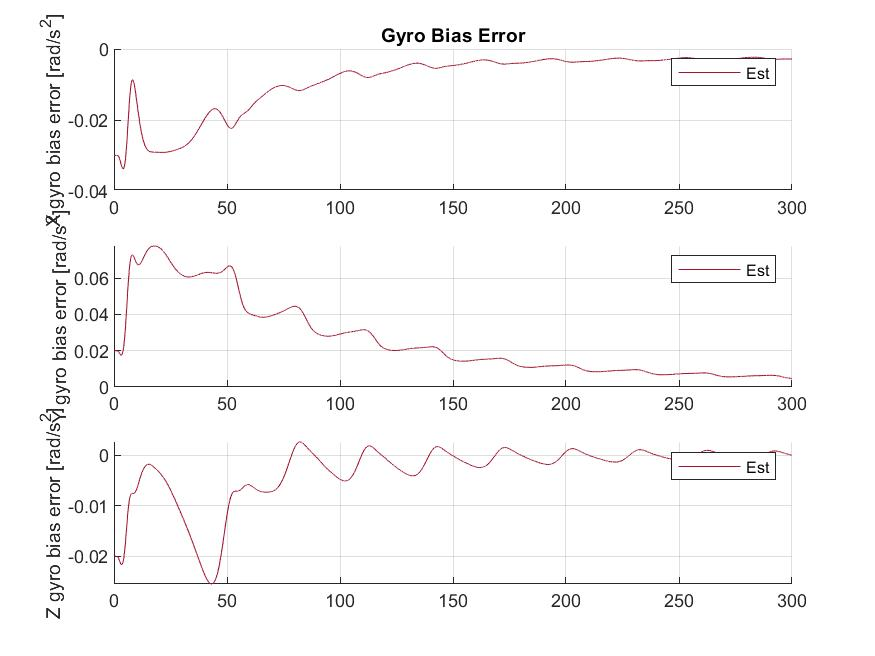
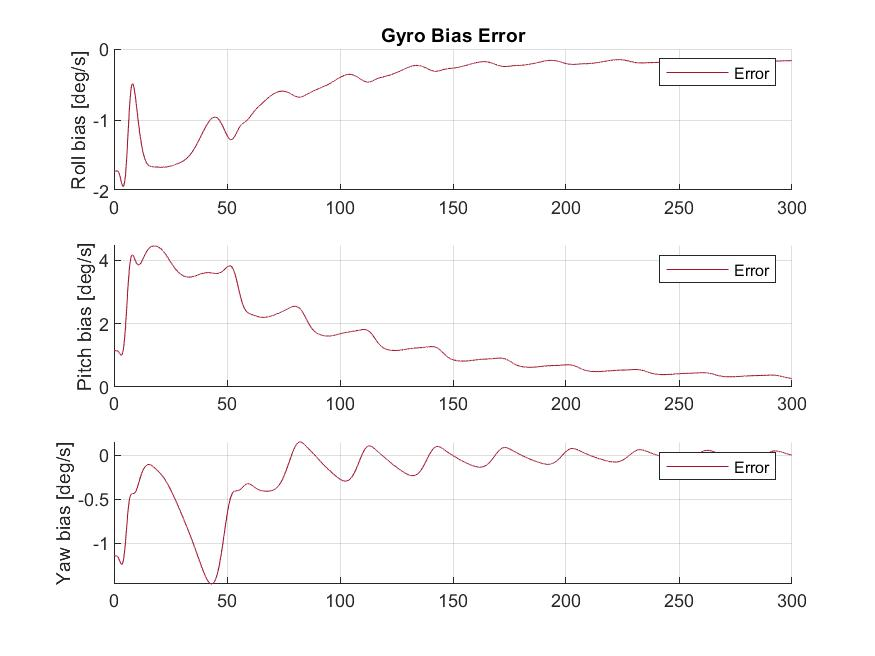
Prettify plots

diff --git a/ESKF/MESKF_sola.m b/ESKF/MESKF_sola.m
@@ -160,6 +160,8 @@ end
 
 % PLOTS
    
+% PLOTS
+   
 % POSITION
 figure(1)
 figure(gcf);
@@ -204,14 +206,14 @@ subplot(3, 1, 2)
 hold on;
 plot(time, p_n_nb(2,:) - ins_data(2,:) ,'Color', [0.6350, 0.0780, 0.1840], 'Linewidth', 0.5);
 ylabel('Y position [m]')
-legend('Est');
+legend('Error');
 grid on;
 
 subplot(3, 1, 3)
 hold on;
 plot(time, p_n_nb(3,:) - ins_data(3,:) ,'Color', [0.6350, 0.0780, 0.1840], 'Linewidth', 0.5);
 ylabel('Z position [m]')
-legend('Est');
+legend('Error');
 grid on;
 saveas(gcf,'results/PositionError.jpeg')
 
@@ -251,23 +253,23 @@ figure(gcf);
 subplot(3, 1, 1)
 hold on;
 plot(time, v_n_nb(1,:) - ins_data(4,:) ,'Color', [0.6350, 0.0780, 0.1840], 'Linewidth', 0.5);
-ylabel('X velocity error [m/s]')
-legend('Est');
+ylabel('X velocity [m/s]')
+legend('Error');
 title('Velocity Error');
 grid on;
 
 subplot(3, 1, 2)
 hold on;
 plot(time, v_n_nb(2,:) - ins_data(5,:) ,'Color', [0.6350, 0.0780, 0.1840], 'Linewidth', 0.5);
-ylabel('Y velocity error [m/s]')
-legend('Est');
+ylabel('Y velocity [m/s]')
+legend('Error');
 grid on;
 
 subplot(3, 1, 3)
 hold on;
 plot(time, v_n_nb(3,:) - ins_data(6,:) ,'Color', [0.6350, 0.0780, 0.1840], 'Linewidth', 0.5);
-ylabel('Z velocity error [m/s]')
-legend('Est');
+ylabel('Z velocity [m/s]')
+legend('Error');
 grid on;
 saveas(gcf,'results/VelocityError.jpeg')
 
@@ -309,8 +311,8 @@ figure(gcf);
 subplot(3, 1, 1)
 hold on;
 plot(time, bacc_b_nb(1,:) - ins_data(7,:) ,'Color', [0.6350, 0.0780, 0.1840], 'Linewidth', 0.5);
-ylabel('X accel bias error [m/s^2]')
-legend('Est');
+ylabel('X accel bias [m/s^2]')
+legend('Error');
 title('Accelerometer Bias Error');
 grid on;
 
@@ -318,14 +320,14 @@ subplot(3, 1, 2)
 hold on;
 plot(time, bacc_b_nb(2,:) - ins_data(8,:) ,'Color', [0.6350, 0.0780, 0.1840], 'Linewidth', 0.5);
 ylabel('Y accel bias error [m/s^2]')
-legend('Est');
+legend('Error');
 grid on;
 
 subplot(3, 1, 3)
 hold on;
 plot(time, bacc_b_nb(3,:) - ins_data(9,:) ,'Color', [0.6350, 0.0780, 0.1840], 'Linewidth', 0.5);
-ylabel('Z accel bias error [m/s^2]')
-legend('Est');
+ylabel('Z accel bias [m/s^2]')
+legend('Error');
 grid on;
 saveas(gcf,'results/AccelBiasError.jpeg')
 
@@ -356,7 +358,7 @@ hold on;
 plot(time, rad2deg*ins_data(12,:), 'Color', [1,165/255, 0], 'Linewidth', 2);
 plot(time, rad2deg*att_n_nb(3,:),'Color', 'black', 'Linewidth', 1.5);
 xlabel('Time [s]');
-ylabel('yaw angle [deg]')
+ylabel('Yaw angle [deg]')
 legend('Est', 'True');
 grid on;
 saveas(gcf,'results/Attitude.jpeg')
@@ -368,23 +370,23 @@ figure(gcf);
 subplot(3, 1, 1)
 hold on;
 plot(time, ssa(rad2deg*att_n_nb(1,:) - rad2deg*ins_data(10,:),'deg') ,'Color', [0.6350, 0.0780, 0.1840], 'Linewidth', 0.5);
-ylabel('X velocity error [m/s]')
-legend('Est');
-title('Attotide Error');
+ylabel('Roll angle [deg]')
+legend('Error');
+title('Attitude Error');
 grid on;
 
 subplot(3, 1, 2)
 hold on;
 plot(time, ssa(rad2deg*att_n_nb(2,:) - rad2deg*ins_data(11,:), 'deg') ,'Color', [0.6350, 0.0780, 0.1840], 'Linewidth', 0.5);
-ylabel('Y velocity error [m/s]')
-legend('Est');
+ylabel('Pitch angle [deg]')
+legend('Error');
 grid on;
 
 subplot(3, 1, 3)
 hold on;
 plot(time, ssa(rad2deg*att_n_nb(3,:) - rad2deg*ins_data(12,:),'deg') ,'Color', [0.6350, 0.0780, 0.1840], 'Linewidth', 0.5);
-ylabel('Z velocity error [m/s]')
-legend('Est');
+ylabel('Yaw angle [deg]')
+legend('Error');
 grid on;
 saveas(gcf,'results/AttitudeError.jpeg')
 
@@ -397,7 +399,7 @@ subplot(3, 1, 1)
 hold on;
 plot(time, ins_data(13,:) ,'Color', [1,165/255, 0], 'Linewidth', 2);
 plot(time, bars_b_nb(1,:),'Color', 'black', 'Linewidth', 1.5);
-ylabel('Roll bias [deg]')
+ylabel('Roll bias [deg/s]')
 legend('Est', 'True');
 title('Gyro bias');
 grid on;
@@ -406,7 +408,7 @@ subplot(3, 1, 2)
 hold on;
 plot(time, ins_data(14,:) ,'Color', [1,165/255, 0], 'Linewidth', 2);
 plot(time, bars_b_nb(2,:),'Color', 'black', 'Linewidth', 1.5);
-ylabel('Pitch bias [deg]')
+ylabel('Pitch bias [deg/s]')
 legend('Est', 'True');
 grid on;
 
@@ -414,7 +416,7 @@ subplot(3, 1, 3)
 hold on;
 plot(time, ins_data(15,:) ,'Color', [1,165/255, 0], 'Linewidth', 2);
 plot(time, bars_b_nb(3,:),'Color', 'black', 'Linewidth', 1.5);
-ylabel('Yaw bias [deg]')
+ylabel('Yaw bias [deg/s]')
 legend('Est', 'True');
 grid on;
 saveas(gcf,'results/GyroBias.jpeg')
@@ -424,24 +426,24 @@ figure(10)
 figure(gcf);
 subplot(3, 1, 1)
 hold on;
-plot(time, bars_b_nb(1,:) - ins_data(13,:) ,'Color', [0.6350, 0.0780, 0.1840], 'Linewidth', 0.5);
-ylabel('X gyro bias error [rad/s^2]')
-legend('Est');
+plot(time, rad2deg*(bars_b_nb(1,:) - ins_data(13,:)) ,'Color', [0.6350, 0.0780, 0.1840], 'Linewidth', 0.5);
+ylabel('Roll bias [deg/s]')
+legend('Error');
 title('Gyro Bias Error');
 grid on;
 
 subplot(3, 1, 2)
 hold on;
-plot(time, bars_b_nb(2,:) - ins_data(14,:) ,'Color', [0.6350, 0.0780, 0.1840], 'Linewidth', 0.5);
-ylabel('Y gyro bias error [rad/s^2]')
-legend('Est');
+plot(time, rad2deg*(bars_b_nb(2,:) - ins_data(14,:)) ,'Color', [0.6350, 0.0780, 0.1840], 'Linewidth', 0.5);
+ylabel('Pitch bias [deg/s]')
+legend('Error');
 grid on;
 
 subplot(3, 1, 3)
 hold on;
-plot(time, bars_b_nb(3,:) - ins_data(15,:) ,'Color', [0.6350, 0.0780, 0.1840], 'Linewidth', 0.5);
-ylabel('Z gyro bias error [rad/s^2]')
-legend('Est');
+plot(time, rad2deg*(bars_b_nb(3,:) - ins_data(15,:)) ,'Color', [0.6350, 0.0780, 0.1840], 'Linewidth', 0.5);
+ylabel('Yaw bias [deg/s]')
+legend('Error');
 grid on;
 saveas(gcf,'results/GyroBiasError.jpeg')
 
@@ -509,7 +511,7 @@ subplot(3, 1, 1)
 hold on;
 plot(time, g_err_data(1,:),'Color', 'black', 'Linewidth', 1.5);
 ylabel('gravity err X [m/s^2]')
-legend('Estimated');
+legend('Est');
 title('Gravity Error');
 grid on;
 
@@ -540,4 +542,3 @@ ylabel('X position [m]');
 title('Position Plot');
 grid on;
 saveas(gcf,'results/PositionMap.jpeg')
-
